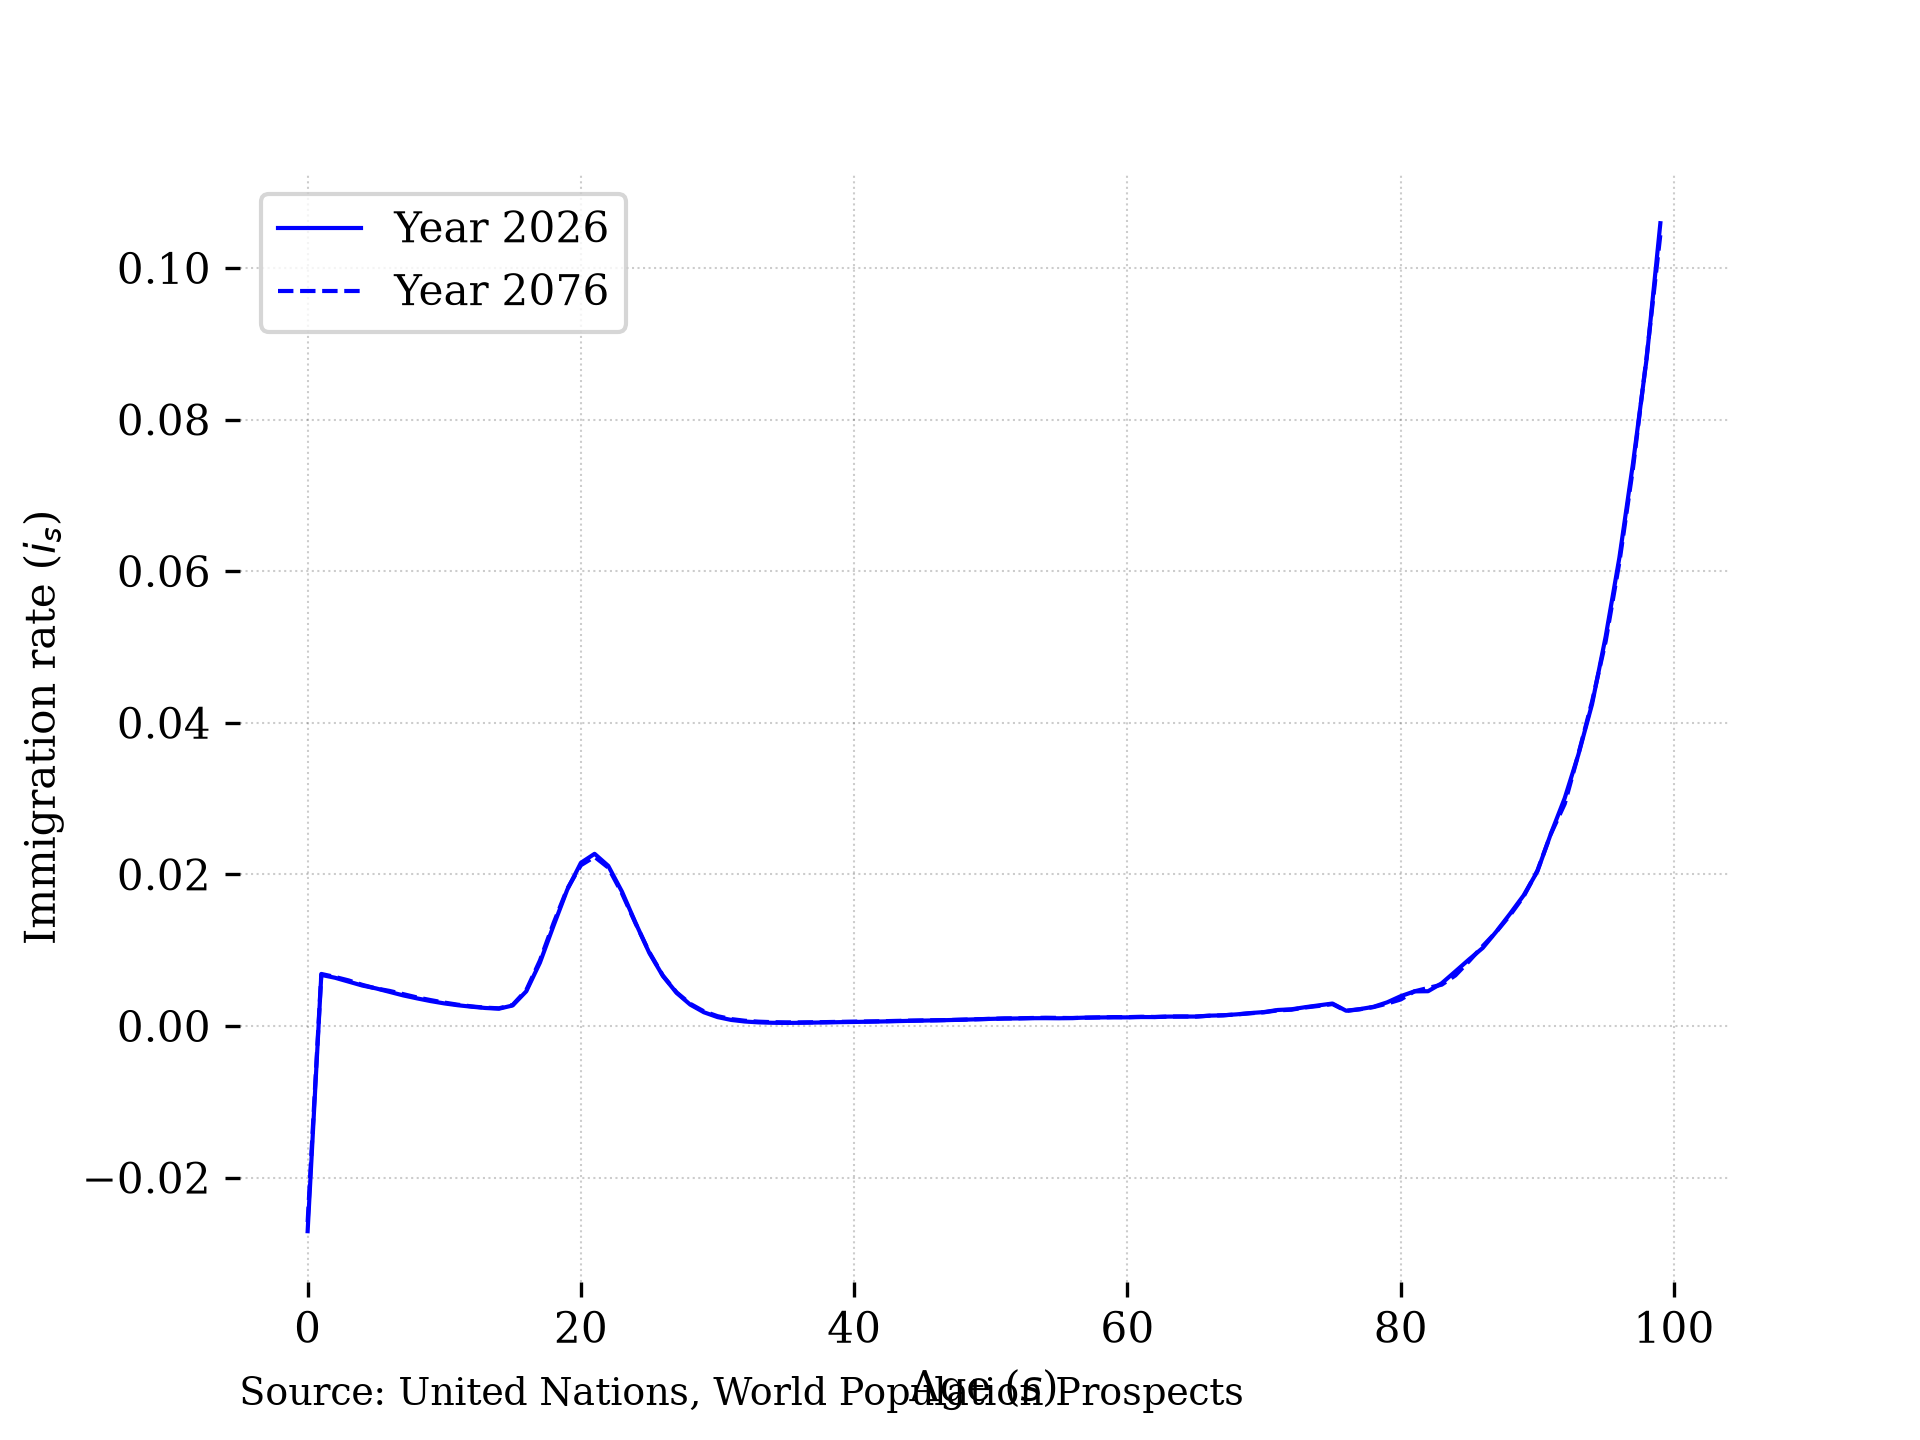
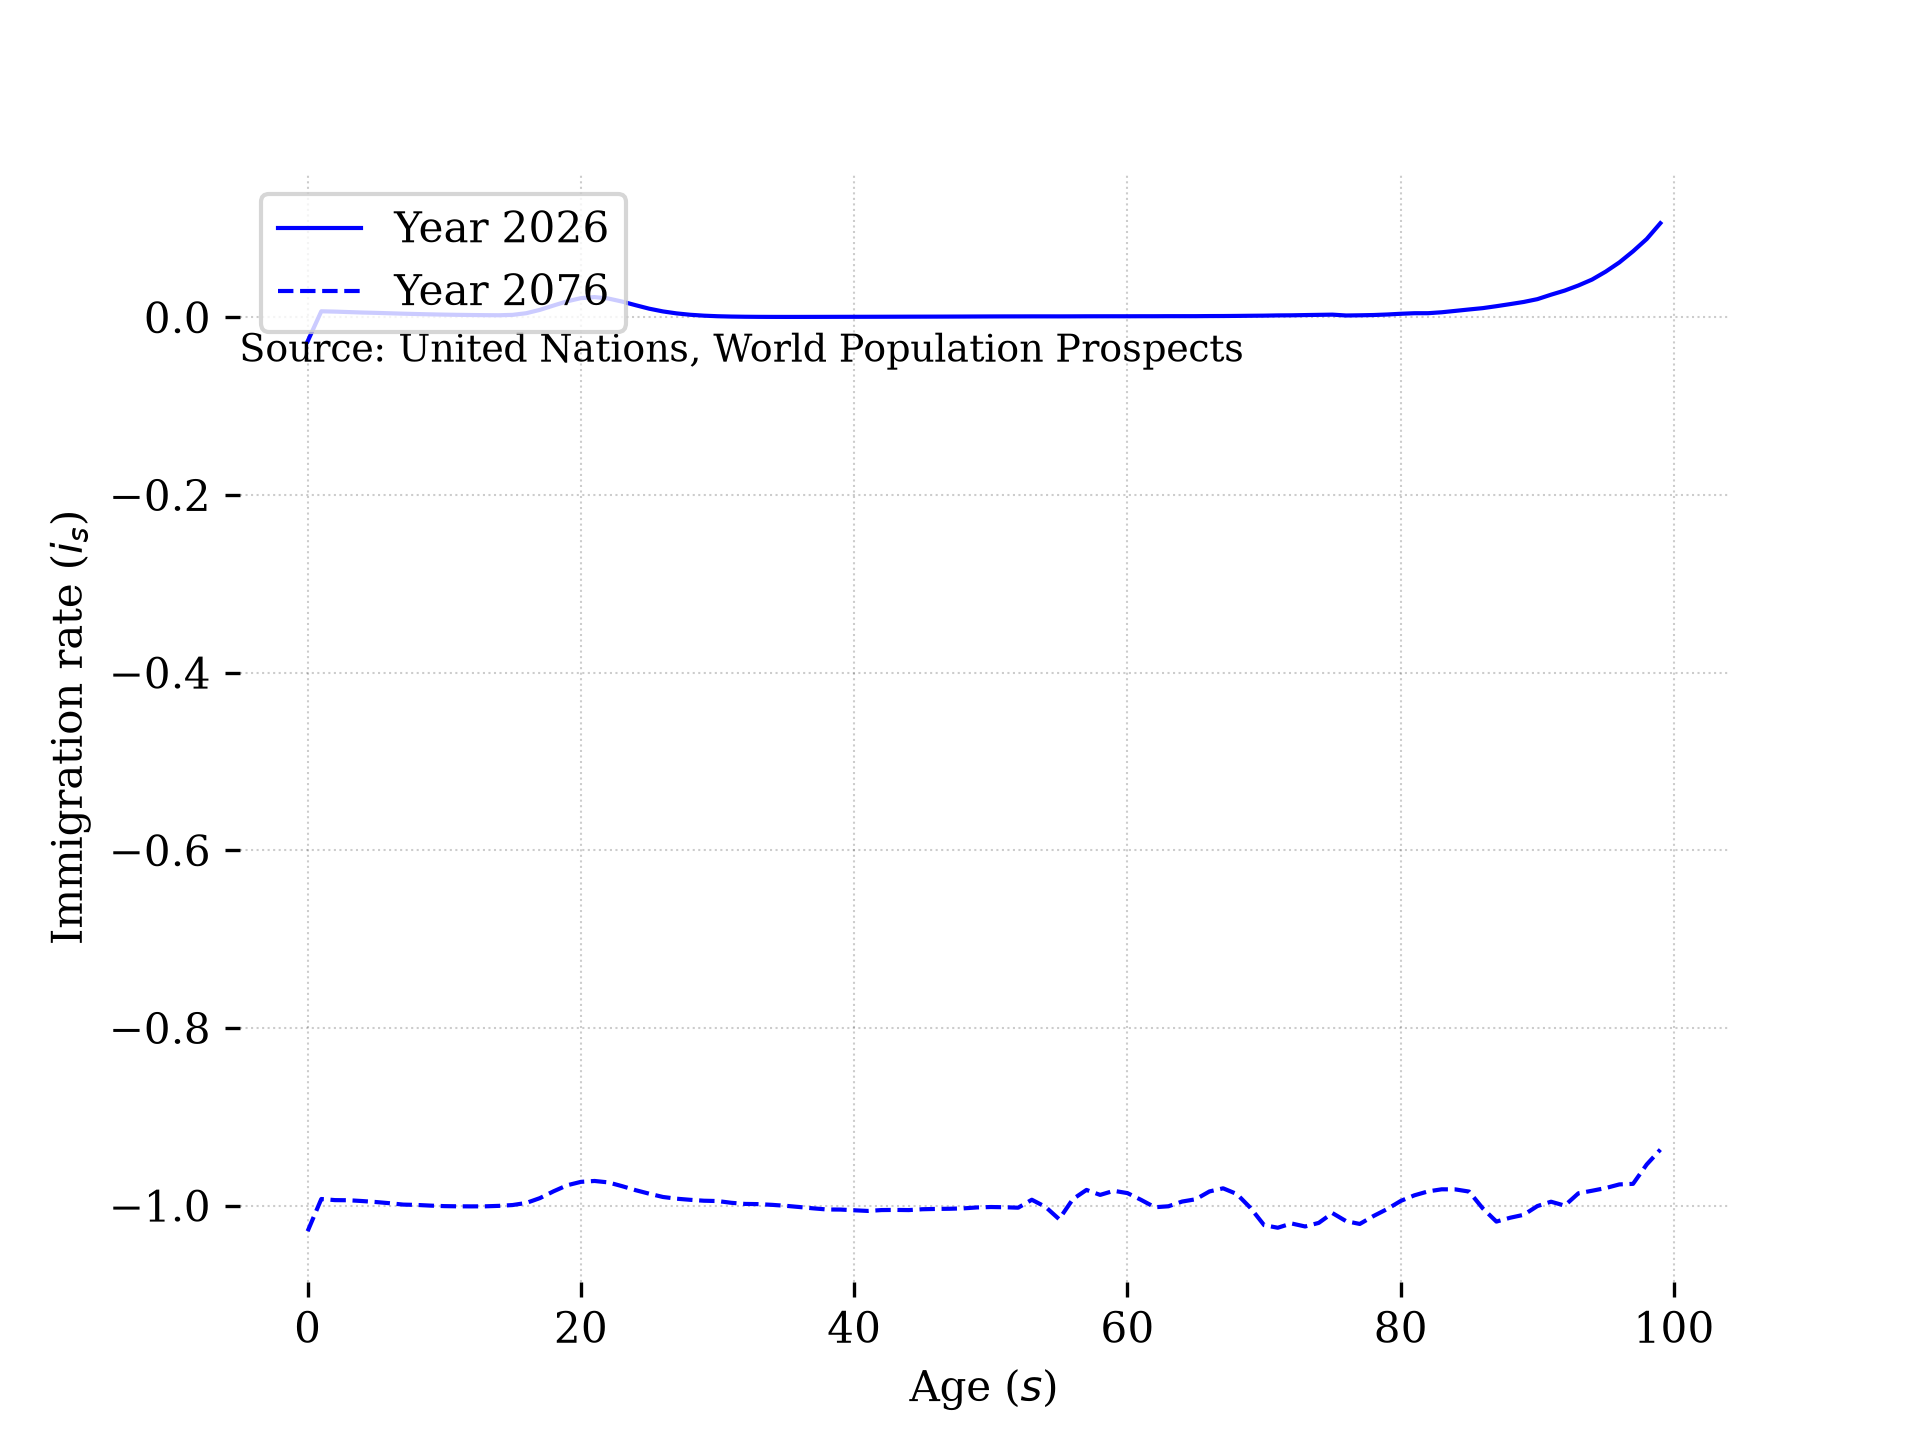
Updated book tables and images

diff --git a/docs/book/content/calibration/images/exogenous_parameters_table.md b/docs/book/content/calibration/images/exogenous_parameters_table.md
@@ -49,7 +49,7 @@
 | $M$                                      | Constant in wealth tax function                                                                                              | [1.000...1.000]                                       |
 | $P$                                      | Coefficient on level term in wealth tax function                                                                             | [0.000...0.000]                                       |
 | $\tau^{BQ}_{t}$                          | Bequest (estate) tax rate                                                                                                    | [0.000...0.000]                                       |
-| $\tau^{p}_{t}$                           | Payroll tax rate                                                                                                             | [0.000...0.000]                                       |
+| $\tau^{p}_{j,t}$                         | Payroll tax rate                                                                                                             | Too large to report here, see default parameters JSON |
 | $\chi^{b}_{j}$                           | Utility of bequests level parameters                                                                                         | [9.056...75.881]                                      |
 | $\chi^{n}_{s,t}$                         | Disutility of labor level parameters                                                                                         | Too large to report here, see default parameters JSON |
 | $\eta_{j,s,t}$                           | Distribution of transfers                                                                                                    | Too large to report here, see default parameters JSON |
